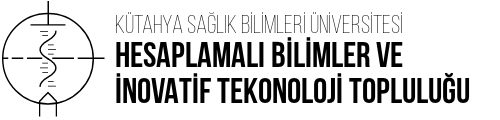
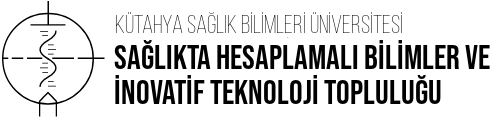
yazım düzeltmeleri

Changed region(s): [[0.21, 0.6, 0.96, 0.875], [0.21, 0.3, 0.99, 0.575]]

diff --git a/index.html b/index.html
@@ -30,7 +30,7 @@
         <a class="nav-link" href="#" >Organizasyon Şeması</a>
       </li>
       <li>
-        <a class="nav-link" href="https://www.uniprot.org/uniprot/P10809" data-toggle="tooltip" title="Yandaki görsel; insan mitokondriyal ısı şok proteininin elektron mikroskopu altındaki 3B yapısının (6mrc numaralı çözüm) QuteMol yazılımıyla yorumlanıp, POVRay yazılımı-raytracing yöntemi kullanmasıyla hazırlanmıştır.">Görsel Hakkında</a>
+        <a class="nav-link" href="https://www.uniprot.org/uniprot/P10809" data-toggle="tooltip" title="Yandaki görsel; insan mitokondriyal ısı şok proteininin elektron mikroskopu altındaki 3B yapısının (6mrc numaralı çözüm) jMol yazılımıyla yorumlanıp, POVRay yazılımı-raytracing yöntemi kullanmasıyla hazırlanmıştır.">Görsel Hakkında</a>
       </li>
       
     </ul>
